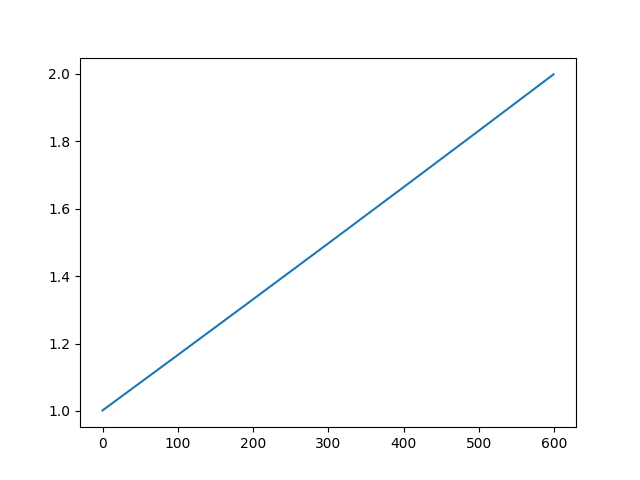
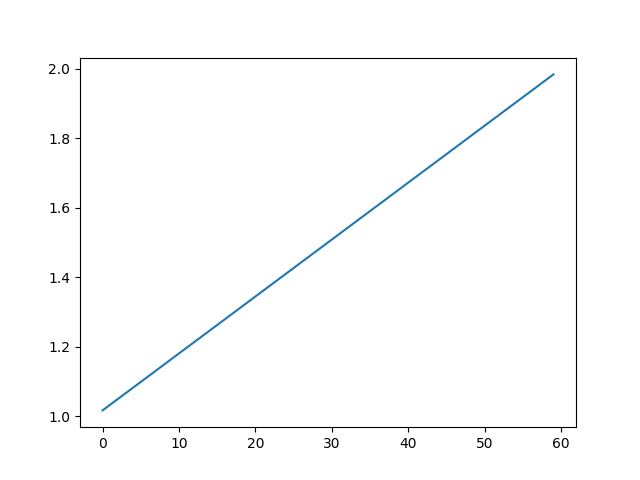
More data
nice

diff --git a/hw2/laplace.c b/hw2/laplace.c
@@ -15,7 +15,7 @@ void laplace_iterate(float* buf, int n, float left, float right) {
 }
 
 int main ( int argc , char ** argv ) {
-    int k , p , me , left , right , count = 1, tag = 1, nit = 3000000, n_local, n_total=600;
+    int k , p , me , left , right , count = 1, tag = 1, nit = 3000000, n_local, n_total=30*2;
     float ul, ur, u, u0 = 1.0 , alpha = 1.0 , beta = 2.0;
     MPI_Status status;
 
